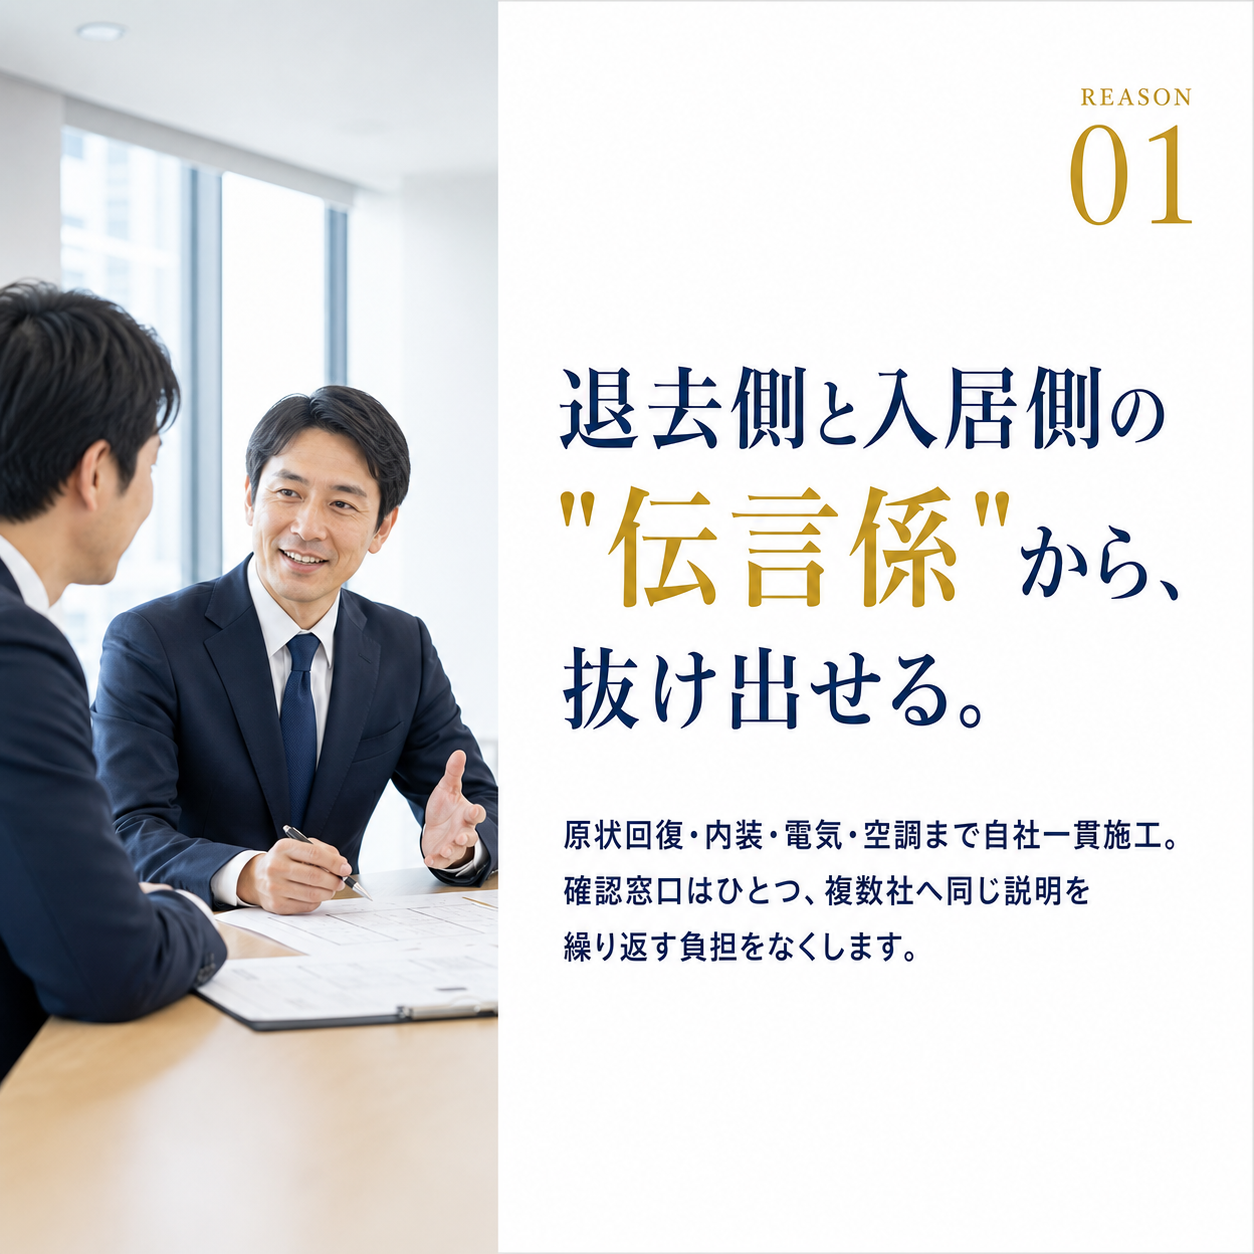
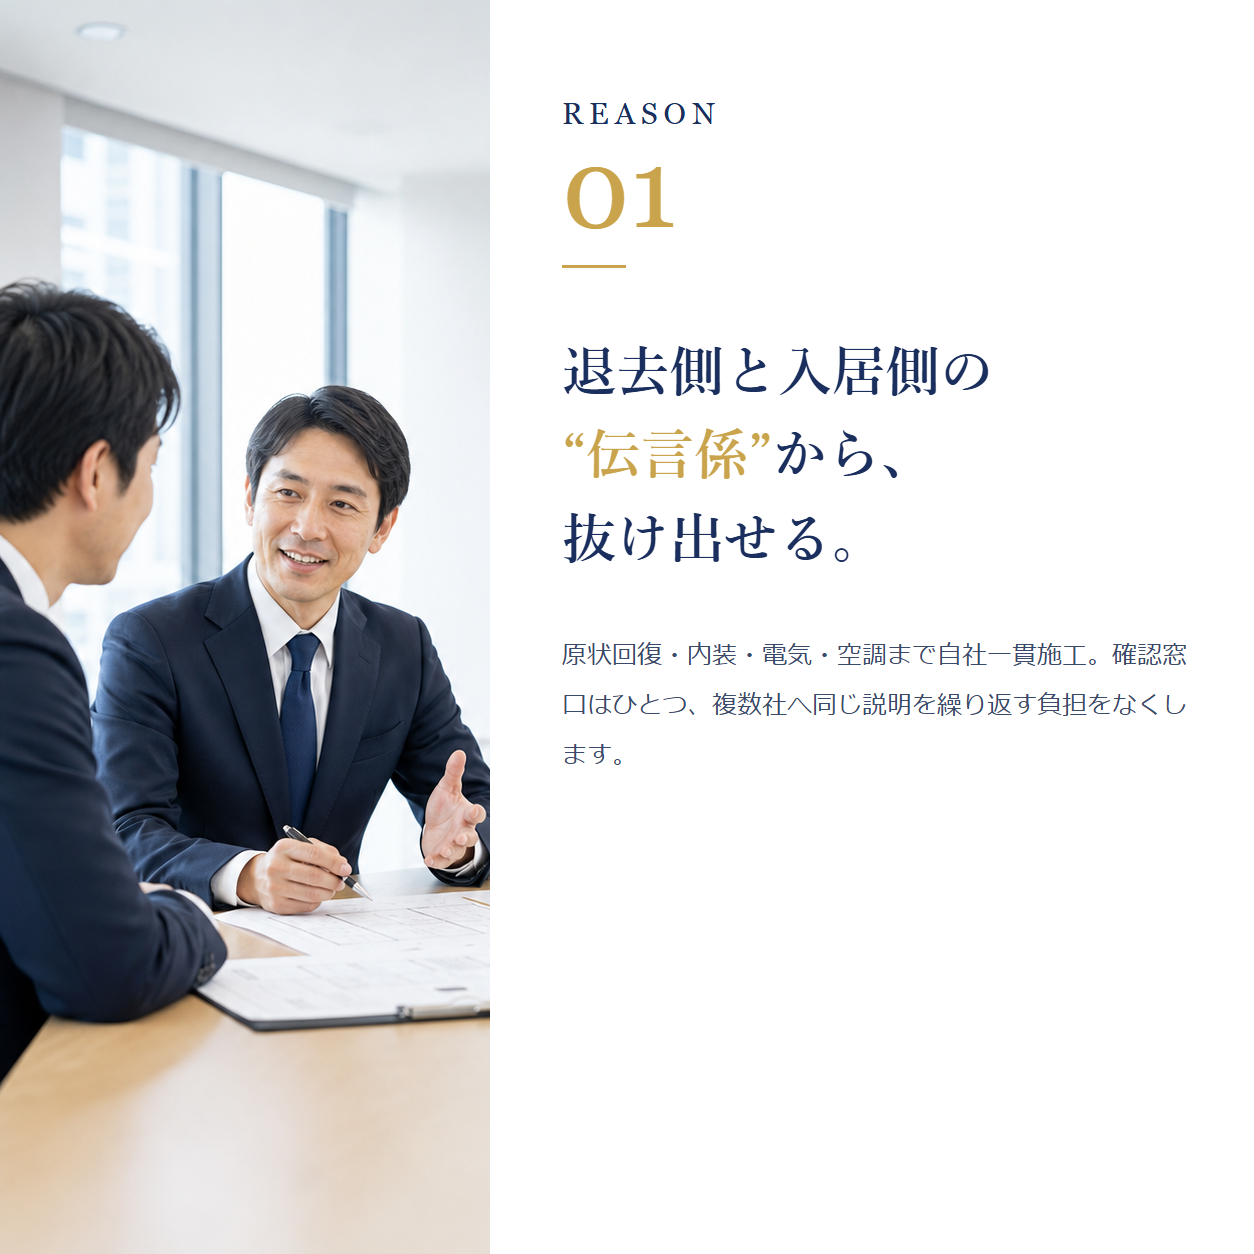
REASON01-04の書体統一・メリットタイトル追加・Q&Aを1枚に統合（ローカル合成・CEO指摘対応）

diff --git a/index.html b/index.html
@@ -47,6 +47,7 @@
 
     <img src="images/img-03.png" alt="オフィス移転・退去のよくあるお困りごと" loading="lazy">
     <img src="images/img-04.png" alt="窓口一本化のご説明" loading="lazy">
+    <img src="images/img-05-title.png" alt="Office Recoveryを導入するメリット" loading="lazy">
     <img src="images/img-05a.png" alt="選ばれる理由01" loading="lazy">
     <img src="images/img-05b.png" alt="選ばれる理由02" loading="lazy">
     <img src="images/img-05c.png" alt="選ばれる理由03" loading="lazy">
@@ -57,8 +58,7 @@
     <!-- PRICE-SECTION-SLOT: img-08.png 確定後にここへ挿入 -->
 
     <img src="images/img-09.png" alt="ご依頼の流れ" loading="lazy">
-    <img src="images/img-10a.png" alt="よくあるご質問" loading="lazy">
-    <img src="images/img-10b.png" alt="よくあるご質問" loading="lazy">
+    <img src="images/img-10.png" alt="よくあるご質問" loading="lazy">
     <a href="mailto:contact@example.com?subject=%E3%80%90Office%20Recovery%E3%80%91%E7%84%A1%E6%96%99%E7%9B%B8%E8%AB%87">
       <img src="images/img-11.png" alt="メールで相談する" loading="lazy">
     </a>
